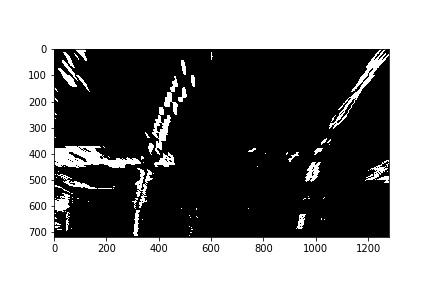
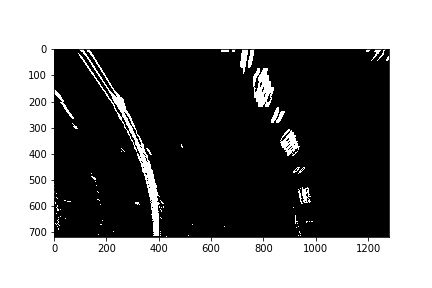
Finding Lane Lines with Sliding Window

diff --git a/lane_finding.py b/lane_finding.py
@@ -149,9 +149,9 @@ plt.show()
 # Source image points
 imshape = img.shape
 plt.imshow(img)
-plt.plot(700, 443, '.') # top right
+plt.plot(681, 444, '.') # top right
 plt.plot(1200, imshape[0], '.') # bottom right
-plt.plot(580, 443, '.') # top left
+plt.plot(598, 444, '.') # top left
 plt.plot(150, imshape[0], '.') # bottom left
 
 # In[6]
@@ -159,10 +159,10 @@ plt.plot(150, imshape[0], '.') # bottom left
 
 # Four source coordinates
 src = np.float32(
-    [[700, 450],
-     [1150, imshape[0]],
-     [580, 443],
-     [164, imshape[0]]])
+    [[681, 444],
+     [1200, imshape[0]],
+     [598, 444],
+     [150, imshape[0]]])
 
 # Four desired coordinates
 dst = np.float32(
@@ -214,7 +214,7 @@ plt.savefig('output_images/perspectiveTransform.jpg')
 
 # In[8]
 # Test all steps so far
-img = mpimg.imread('test_images/straight_lines1.jpg')
+img = mpimg.imread('test_images/test2.jpg')
 # plt.imshow(img)
 
 # undistort with camera calibration
@@ -230,3 +230,103 @@ warped_im = warp(threshold_img, src, dst)
 plt.imshow(warped_im, cmap = plt.get_cmap('gray'))
 
 plt.savefig('output_images/undistort+threshold+perspectiveTransform.jpg')
+
+
+
+
+
+
+
+
+
+# In[9]
+# Lane Finding
+
+# Locate lane lines and fit a polynomial
+
+# binary image with perspective transform
+binary_warped = warped_im
+
+# Take a histogram of the bottom half of the image
+histogram = np.sum(binary_warped[binary_warped.shape[0]//2:,:], axis=0)
+# Create an output image to draw on and  visualize the result
+out_img = np.dstack((binary_warped, binary_warped, binary_warped))*255
+# Find the peak of the left and right halves of the histogram
+# These will be the starting point for the left and right lines
+midpoint = np.int(histogram.shape[0]/2)
+leftx_base = np.argmax(histogram[:midpoint])
+rightx_base = np.argmax(histogram[midpoint:]) + midpoint
+
+# Choose the number of sliding windows
+nwindows = 9
+# Set height of windows
+window_height = np.int(binary_warped.shape[0]/nwindows)
+# Identify the x and y positions of all nonzero pixels in the image
+nonzero = binary_warped.nonzero()
+nonzeroy = np.array(nonzero[0])
+nonzerox = np.array(nonzero[1])
+# Current positions to be updated for each window
+leftx_current = leftx_base
+rightx_current = rightx_base
+# Set the width of the windows +/- margin
+margin = 100
+# Set minimum number of pixels found to recenter window
+minpix = 50
+# Create empty lists to receive left and right lane pixel indices
+left_lane_inds = []
+right_lane_inds = []
+
+# Step through the windows one by one
+for window in range(nwindows):
+    # Identify window boundaries in x and y (and right and left)
+    win_y_low = binary_warped.shape[0] - (window+1)*window_height
+    win_y_high = binary_warped.shape[0] - window*window_height
+    win_xleft_low = leftx_current - margin
+    win_xleft_high = leftx_current + margin
+    win_xright_low = rightx_current - margin
+    win_xright_high = rightx_current + margin
+    # Draw the windows on the visualization image
+    cv2.rectangle(out_img,(win_xleft_low,win_y_low),(win_xleft_high,win_y_high),(0,255,0), 2)
+    cv2.rectangle(out_img,(win_xright_low,win_y_low),(win_xright_high,win_y_high),(0,255,0), 2)
+    # Identify the nonzero pixels in x and y within the window
+    good_left_inds = ((nonzeroy >= win_y_low) & (nonzeroy < win_y_high) & (nonzerox >= win_xleft_low) & (nonzerox < win_xleft_high)).nonzero()[0]
+    good_right_inds = ((nonzeroy >= win_y_low) & (nonzeroy < win_y_high) & (nonzerox >= win_xright_low) & (nonzerox < win_xright_high)).nonzero()[0]
+    # Append these indices to the lists
+    left_lane_inds.append(good_left_inds)
+    right_lane_inds.append(good_right_inds)
+    # If you found > minpix pixels, recenter next window on their mean position
+    if len(good_left_inds) > minpix:
+        leftx_current = np.int(np.mean(nonzerox[good_left_inds]))
+    if len(good_right_inds) > minpix:
+        rightx_current = np.int(np.mean(nonzerox[good_right_inds]))
+
+# Concatenate the arrays of indices
+left_lane_inds = np.concatenate(left_lane_inds)
+right_lane_inds = np.concatenate(right_lane_inds)
+
+# Extract left and right line pixel positions
+leftx = nonzerox[left_lane_inds]
+lefty = nonzeroy[left_lane_inds]
+rightx = nonzerox[right_lane_inds]
+righty = nonzeroy[right_lane_inds]
+
+# Fit a second order polynomial to each
+left_fit = np.polyfit(lefty, leftx, 2)
+right_fit = np.polyfit(righty, rightx, 2)
+
+# In[10]
+
+# Visualize
+# Generate x and y values for plotting
+ploty = np.linspace(0, binary_warped.shape[0]-1, binary_warped.shape[0] )
+left_fitx = left_fit[0]*ploty**2 + left_fit[1]*ploty + left_fit[2]
+right_fitx = right_fit[0]*ploty**2 + right_fit[1]*ploty + right_fit[2]
+
+out_img[nonzeroy[left_lane_inds], nonzerox[left_lane_inds]] = [255, 0, 0]
+out_img[nonzeroy[right_lane_inds], nonzerox[right_lane_inds]] = [0, 0, 255]
+plt.imshow(out_img)
+plt.plot(left_fitx, ploty, color='yellow')
+plt.plot(right_fitx, ploty, color='yellow')
+plt.xlim(0, 1280)
+plt.ylim(720, 0)
+plt.savefig('output_images/FindingLaneLines_SlidingWindow.jpg')
